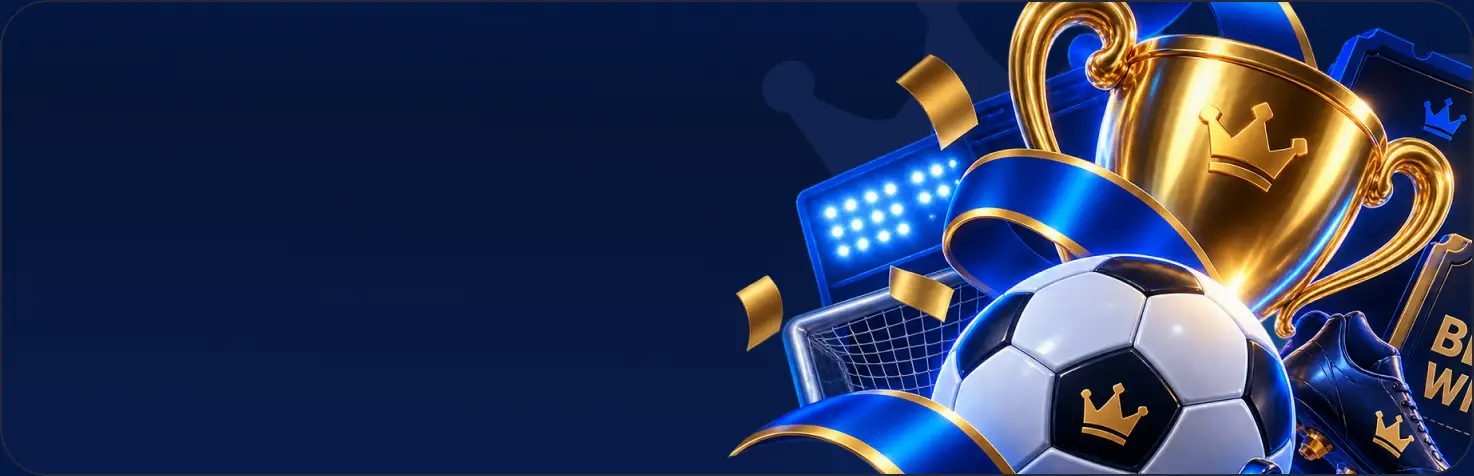
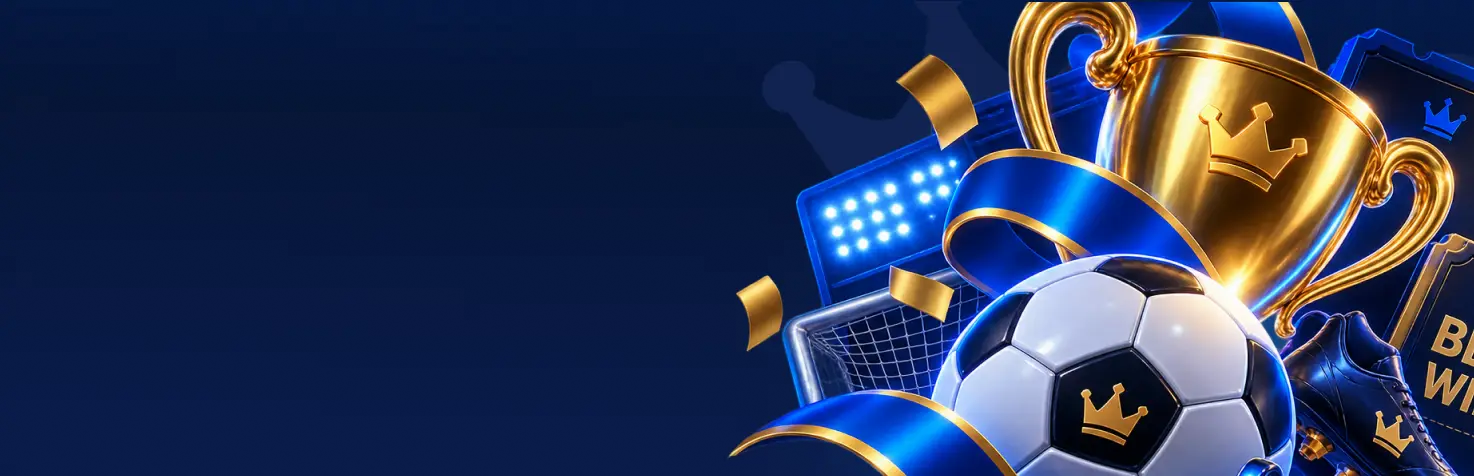
WarWin: обновление превью

diff --git a/index.html b/index.html
@@ -2179,7 +2179,9 @@ body.nav-rail .sidebar.is-expanded .sidebar__inner { overflow: visible; }
        Градиент закрывает полосу слева на ширинах больше 1440 и взят из
        крайнего левого столбца самой картинки, чтобы стык совпал по цвету. */
     border-radius: 24px; border: 0;
-    background-image: linear-gradient(182.46deg, #031741 0%, #06163b 35%, #081a48 100%);
+    /* 1647:19434 — тот же градиент, что залит в кадре: на ширинах больше 737
+       картинка прижата вправо, и другим оттенком слева был бы виден стык. */
+    background-image: linear-gradient(182.18deg, #041b4b 2.83%, #061537 28.46%, #0a1b49 86.84%);
   }
   /* image 597 — 522x317 на 350,3, низ уходит под обрез */
   /* Арт вписан по высоте баннера: в макете бокс 522x317 уходит на 45px под
@@ -2224,23 +2226,32 @@ body.nav-rail .sidebar.is-expanded .sidebar__inner { overflow: visible; }
                 display: flex; flex-direction: column; gap: 32px; }
   /* Правило выше по весу равно базовому и включало бы мобильный блок входа */
   .hero__copy--mob-authed { display: none; }
-  /* 1647:19535 — копи-блок баннеров после входа: слева 23, по центру высоты,
-     ширина 357, шаг 20 между текстом и кнопкой. Числа из макета, не подобраны. */
-  .hero .hero__copy--authed { position: absolute; left: 23px; top: 50%; right: auto;
-                              transform: translateY(-50%); width: 357px;
+  /* 1647:19535 — копи-блок баннеров после входа: 24 слева, 27 сверху,
+     ширина 357, высота 184, шаг 20 между текстом и кнопкой. */
+  .hero .hero__copy--authed { position: absolute; left: 24px; top: 27px; right: auto;
+                              transform: none; width: 357px;
                               align-items: flex-start; gap: 20px; }
   /* 1647:19536 — заголовок и подпись, шаг 16 */
   .hero .hero__copy--authed .hero__text { display: flex; flex-direction: column;
                                           gap: 16px; width: 360px; }
-  /* 1647:19537 — Cora Medium 40, ширина 368 */
-  .hero .hero__copy--authed .hero__title { width: 368px; font-size: 40px;
-                                           line-height: normal; font-weight: 500;
+  /* 1647:19537 — 40/36: в макете две строки занимают ровно 72, поэтому
+     интерлиньяж 36, а не «normal». С normal блок вырастал на 20 и кнопка
+     уезжала к нижнему краю. */
+  .hero .hero__copy--authed .hero__title { margin: 0; width: 368px; font-size: 40px;
+                                           line-height: 36px; font-weight: 500;
                                            color: #fff; }
-  /* 1647:19538 — Cora Regular 20, #dcdcdc. В макете перенос стоит вручную;
-     здесь его держит ширина 360 — разметка одна на три языка. */
-  .hero .hero__copy--authed .hero__sub { width: 360px; font-size: 20px;
-                                         line-height: normal; font-weight: 400;
+  /* 1647:19538 — 20/18, две строки ровно 36 */
+  /* Отрицательные поля базового правила гасили компенсацию капительной
+     высоты у гостевого баннера; здесь интерлиньяж уже даёт ровные 72 и 36,
+     и поля только съедали бы зазоры. */
+  .hero .hero__copy--authed .hero__sub { margin: 0; width: 360px; font-size: 20px;
+                                         line-height: 18px; font-weight: 400;
                                          color: #dcdcdc; }
+  /* 1647:19641 — у беттингового баннера копи-блок и обе строки по 342 */
+  .hero .hero__copy--soc { width: 342px; }
+  .hero .hero__copy--soc .hero__text,
+  .hero .hero__copy--soc .hero__title,
+  .hero .hero__copy--soc .hero__sub { width: 342px; }
   /* 1653:13042 — кнопка 141x40, радиус 10, Instrument Sans Bold 14 */
   .hero .hero__cta--join { box-sizing: border-box; width: 141px; height: 40px;
                            padding: 12px; border-radius: 10px;
@@ -2616,13 +2627,12 @@ body.nav-rail .sidebar.is-expanded .sidebar__inner { overflow: visible; }
             scroll-snap-align: center; }
   .mslide__art { position: absolute; inset: 0; display: block;
                  width: 100%; height: 100%; object-fit: cover; }
-  /* 1647:19748 — копи-блок слева 19, по центру высоты, ширина 158,
-     шаг 32 до кнопки. Все числа из макета. */
+  /* 1647:19748 — копи-блок 20 слева, 27 сверху, ширина 158, высота 145,
+     шаг 32 до кнопки. Слева 19, а не 20: у карточки кант в 1px внутри, и
+     абсолютная позиция считается уже за ним. */
   .mslide .hero__copy--mob-authed {
-    /* 18, а не 19: у карточки кант в 1px внутри, и абсолютная позиция
-       отсчитывается уже за ним — от края кадра получается ровно 19. */
-    display: flex; position: absolute; left: 18px; top: 50%; width: 158px;
-    transform: translateY(-50%);
+    display: flex; position: absolute; left: 19px; top: 26px; width: 158px;
+    transform: none;
     flex-direction: column; align-items: flex-start; gap: 32px;
   }
   /* 1647:19750 — заголовок и подпись, шаг 8 */
@@ -2631,11 +2641,15 @@ body.nav-rail .sidebar.is-expanded .sidebar__inner { overflow: visible; }
      шире копи-блока и заходит на арт. */
   .mslide .hero__title { width: 236px; margin: 0;
                          font-weight: 700; font-size: 24px; line-height: 1; }
-  /* 1647:19752 — Instrument Sans Medium 14, #eaeaea. В макете перенос ручной;
-     здесь его держит ширина — разметка одна на три языка. */
-  .mslide .hero__sub { width: 168px; margin: 0;
+  /* 1647:19752 — Instrument Sans Medium 14/14, ширина 160: две строки ровно
+     28, как в макете. В макете перенос ручной, здесь его держит ширина —
+     разметка одна на три языка. */
+  .mslide .hero__sub { width: 160px; margin: 0;
                        font-family: 'Instrument Sans', sans-serif; font-weight: 500;
-                       font-size: 14px; line-height: normal; color: #eaeaea; }
+                       font-size: 14px; line-height: 14px; color: #eaeaea; }
+  /* 1647:19977 — у беттингового баннера заголовок 266, подпись 148 */
+  .mslide .hero__copy--soc .hero__title { width: 266px; }
+  .mslide .hero__copy--soc .hero__sub { width: 148px; }
   /* 1653:13046 — кнопка 140x30, радиус 10, Instrument Sans Bold 14 */
   .mslide .hero__cta { box-sizing: border-box; margin-top: 0; width: 140px; height: 30px;
                        padding: 12px; border-radius: 10px;
@@ -6457,7 +6471,7 @@ body:not(.is-authed) [data-auth-only] { display: none !important; }
           <div class="hslide">
             <!-- 1647:19541 — беттинг, без предложения -->
             <img class="hero__bg hero__bg--authed" src="a/825eb8e950.webp" alt="">
-            <div class="hero__copy hero__copy--authed">
+            <div class="hero__copy hero__copy--authed hero__copy--soc">
               <div class="hero__text">
                 <h1 class="hero__title">SOCCER NIGHT BET&amp;WIN</h1>
                 <p class="hero__sub">LIVE ODDS ON&nbsp;EVERY MATCH, EVERY DAY</p>
@@ -6505,7 +6519,7 @@ body:not(.is-authed) [data-auth-only] { display: none !important; }
         </article>
         <article class="mslide" data-node-id="1647:19873">
           <img class="mslide__art" src="a/9231d9800b.webp" alt="">
-          <div class="hero__copy hero__copy--mob-authed">
+          <div class="hero__copy hero__copy--mob-authed hero__copy--soc">
             <div class="hero__text">
               <h2 class="hero__title">SOCCER NIGHT BET&amp;WIN</h2>
               <p class="hero__sub">LIVE ODDS ON&nbsp;EVERY MATCH, EVERY DAY</p>
